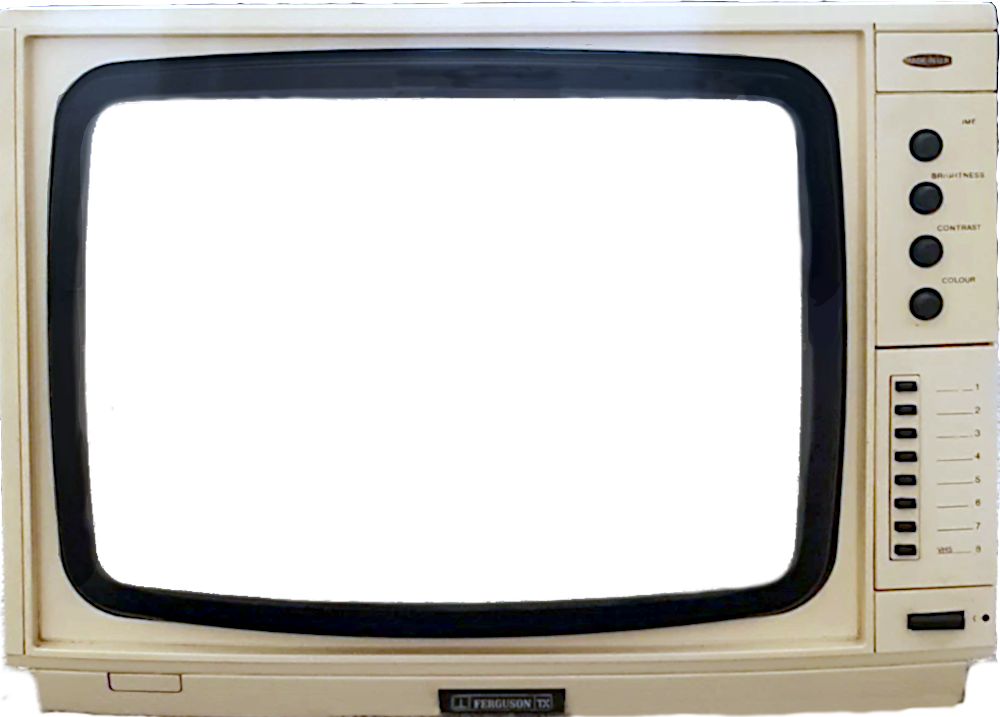
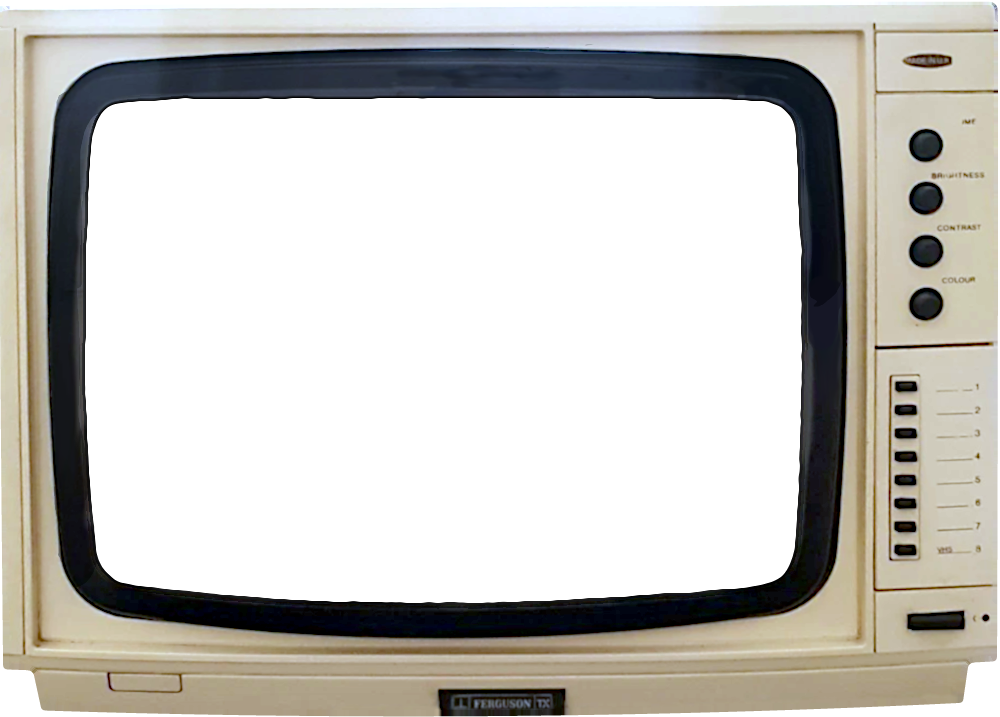
fix: tidy the PAL TV's Ferguson cut-out, so its edges are clean and no light seam rings the screen
The outline is rebuilt from lines fitted to the set's own edges: a smooth
bottom that follows the plinth, rounded corners, and no stray island, notches
or holes. Fringe pixels take the colour of the cabinet just inside them, which
removes the light and dark halos. The screen hole is smoothed, and the bezel's
pale cut edge now fades to black, so it meets the emulated screen without a
grey line. imageHeight matches the 717-row art instead of stretching it to 719.

diff --git a/src/video-filters/pal-composite.js b/src/video-filters/pal-composite.js
@@ -29,7 +29,7 @@ export class PALCompositeFilter {
             image: "images/tv.png",
             imageAlt: "A Ferguson television",
             imageWidth: 1000,
-            imageHeight: 719,
+            imageHeight: 717,
             canvasLeft: 25,
             canvasTop: 60,
             visibleWidth: 825,
